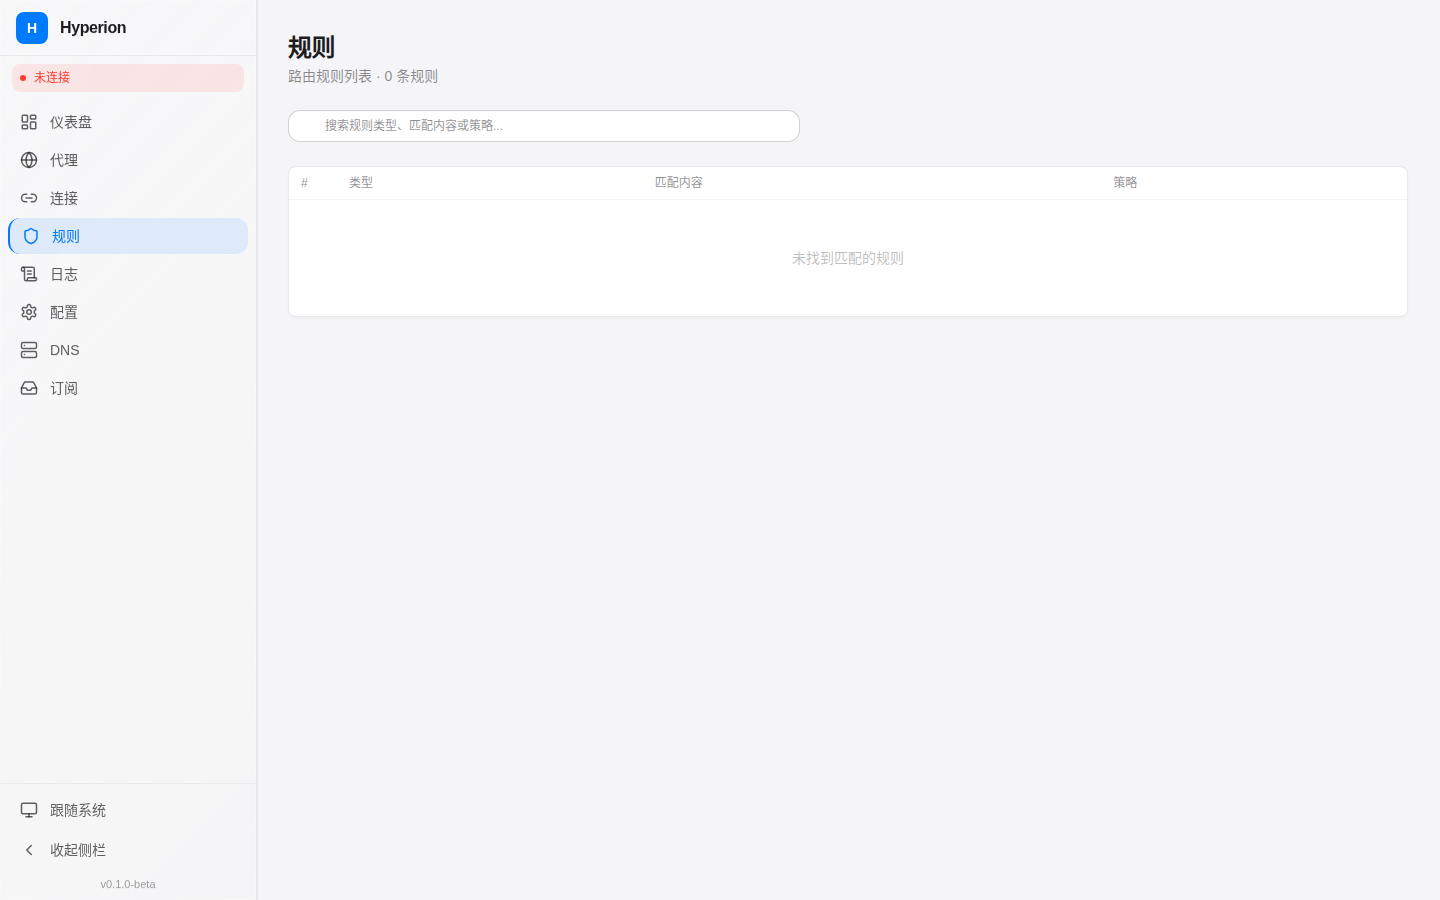
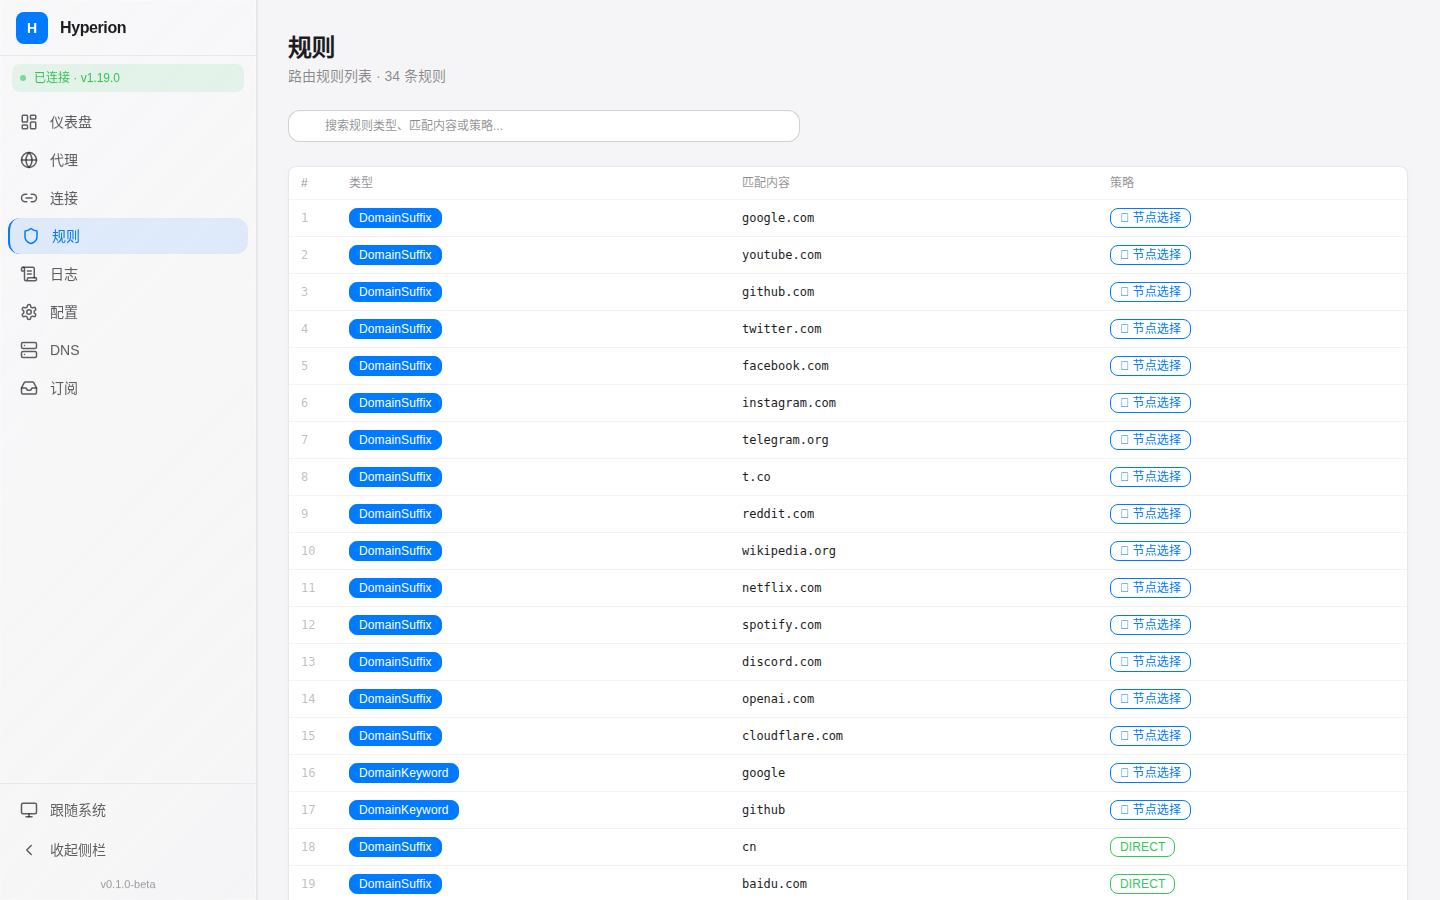
release: Hyperion v0.1.1-beta
修复与优化:

Bug 修复
- 修复路由切换后连接状态丢失问题（App 根组件全局初始化连接）
- 修复 WebSocket 连接路径错误（统一使用 /ws/ 前缀代理）
- 修复 nginx WebSocket 反代配置
- 修复 lucide-solid Dns 图标不存在导致的构建失败
- 修复 SolidJS JSX 动态组件渲染语法错误

功能增强
- Dashboard 新增 WebSocket 实时流量数据流
- Dashboard 新增实时内存使用监控
- 流量图表支持渐变面积图（深色/浅色自适应配色）

SEO 优化
- 添加完整的 Open Graph 和 Twitter Card 元标签
- 添加 JSON-LD 结构化数据
- 添加 robots.txt
- 优化 meta description 和 keywords
- 添加 theme-color 和 canonical URL
- 改进 noscript 回退页面

其他
- 更新版本号至 v0.1.1-beta
- 精简构建产物体积（95KB JS + 68KB CSS）

diff --git a/Hyperion/index.html b/Hyperion/index.html
@@ -3,17 +3,66 @@
   <head>
     <meta charset="UTF-8" />
     <meta name="viewport" content="width=device-width, initial-scale=1.0" />
+
+    <!-- Primary Meta Tags -->
+    <title>Hyperion — Clash 内核网页前端 | Apple 设计语言</title>
+    <meta name="title" content="Hyperion — Clash 内核网页前端" />
+    <meta name="description" content="Hyperion 是一款现代化、高性能的 Clash 内核网页前端管理面板。基于 SolidJS + DaisyUI 构建，采用 Apple 设计语言和 Linear 风格动画，支持深色/浅色主题切换和响应式布局。" />
+    <meta name="keywords" content="Clash, Clash Meta, Mihomo, 代理管理, 网页前端, SolidJS, DaisyUI, Tailwind CSS, Apple Design, Hyperion, 代理面板, 流量监控, 规则管理" />
+    <meta name="author" content="Qing060325" />
+    <meta name="robots" content="index, follow" />
+    <link rel="canonical" href="https://github.com/Qing060325/Hyperion" />
+
+    <!-- Favicon -->
     <link rel="icon" type="image/svg+xml" href="/icons/favicon.svg" />
+    <link rel="apple-touch-icon" href="/icons/favicon.svg" />
+
+    <!-- Open Graph / Facebook -->
+    <meta property="og:type" content="website" />
+    <meta property="og:url" content="https://github.com/Qing060325/Hyperion" />
+    <meta property="og:title" content="Hyperion — Clash 内核网页前端" />
+    <meta property="og:description" content="现代化、高性能的 Clash 内核网页前端。Apple 设计语言 + Linear 风格动画，深色/浅色主题，响应式布局。" />
+    <meta property="og:site_name" content="Hyperion" />
+    <meta property="og:locale" content="zh_CN" />
+
+    <!-- Twitter -->
+    <meta name="twitter:card" content="summary_large_image" />
+    <meta name="twitter:title" content="Hyperion — Clash 内核网页前端" />
+    <meta name="twitter:description" content="现代化、高性能的 Clash 内核网页前端。Apple 设计语言 + Linear 风格动画。" />
+
+    <!-- Theme Color -->
+    <meta name="theme-color" content="#0A84FF" media="(prefers-color-scheme: dark)" />
+    <meta name="theme-color" content="#007AFF" media="(prefers-color-scheme: light)" />
+
+    <!-- Preconnect -->
     <link rel="preconnect" href="https://fonts.googleapis.com" />
     <link rel="preconnect" href="https://fonts.gstatic.com" crossorigin />
-    <link
-      href="https://fonts.googleapis.com/css2?family=Inter:wght@300;400;500;600;700&family=JetBrains+Mono:wght@400;500;600&display=swap"
-      rel="stylesheet"
-    />
-    <title>Hyperion</title>
+
+    <!-- Structured Data (JSON-LD) -->
+    <script type="application/ld+json">
+    {
+      "@context": "https://schema.org",
+      "@type": "SoftwareApplication",
+      "name": "Hyperion",
+      "description": "现代化、高性能的 Clash 内核网页前端管理面板",
+      "applicationCategory": "UtilitiesApplication",
+      "operatingSystem": "Web Browser",
+      "programmingLanguage": "TypeScript",
+      "license": "MIT",
+      "version": "0.1.1-beta",
+      "author": {
+        "@type": "Organization",
+        "name": "Qing060325"
+      }
+    }
+    </script>
   </head>
   <body>
-    <noscript>You need to enable JavaScript to run this app.</noscript>
+    <noscript>
+      <div style="display:flex;align-items:center;justify-content:center;height:100vh;font-family:-apple-system,sans-serif;color:#333;">
+        <p>Hyperion 需要启用 JavaScript 才能运行。</p>
+      </div>
+    </noscript>
     <div id="root"></div>
     <script src="/src/main.tsx" type="module"></script>
   </body>

diff --git a/Hyperion/src/pages/Dashboard.tsx b/Hyperion/src/pages/Dashboard.tsx
@@ -17,26 +17,52 @@ export default function Dashboard() {
   let animFrame: number;
 
   onMount(async () => {
-    await clash.connect();
     if (clash.config()) setMode(clash.config()?.mode || "rule");
+    connectTrafficWs();
+    fetchMemory();
+    const memInterval = setInterval(fetchMemory, 3000);
+    onCleanup(() => {
+      clearInterval(memInterval);
+      if (trafficWs) trafficWs.close();
+    });
   });
 
-  // Poll memory/connections
-  createEffect(() => {
-    if (!clash.connected()) return;
-    const interval = setInterval(async () => {
-      try {
-        const base = clash.baseUrl();
-        const h = clash.headers();
-        const memRes = await fetch(`${base}/memory`, { headers: h });
-        if (memRes.ok) {
-          const d = await memRes.json();
-          setMemory(d.inuse || 0);
-        }
-      } catch {}
-    }, 3000);
-    onCleanup(() => clearInterval(interval));
-  });
+  // Fetch memory
+  const fetchMemory = async () => {
+    try {
+      const res = await fetch(`${clash.baseUrl()}/memory`, { headers: clash.headers() });
+      if (res.ok) {
+        const d = await res.json();
+        setMemory(d.inuse || 0);
+      }
+    } catch {}
+  };
+
+  // WebSocket traffic stream
+  let trafficWs: WebSocket | null = null;
+  const connectTrafficWs = () => {
+    try {
+      const token = clash.token();
+      const params = token ? `?token=${token}` : "";
+      trafficWs = new WebSocket(`${clash.wsUrl()}/traffic${params}`);
+      trafficWs.onmessage = (e) => {
+        try {
+          const data = JSON.parse(e.data);
+          setUpSpeed(data.up || 0);
+          setDownSpeed(data.down || 0);
+          setTotalUp((prev) => prev + (data.up || 0));
+          setTotalDown((prev) => prev + (data.down || 0));
+          setTrafficHistory((prev) => {
+            const next = [...prev, { up: data.up || 0, down: data.down || 0 }];
+            return next.length > 180 ? next.slice(-180) : next;
+          });
+        } catch {}
+      };
+      trafficWs.onclose = () => {
+        setTimeout(connectTrafficWs, 3000);
+      };
+    } catch {}
+  };
 
   // Canvas chart
   createEffect(() => {

diff --git a/Hyperion/src/App.tsx b/Hyperion/src/App.tsx
@@ -1,5 +1,7 @@
-import { Route, Router, A } from "@solidjs/router";
+import { onMount } from "solid-js";
+import { Router, Route } from "@solidjs/router";
 import { useThemeStore } from "./stores/theme";
+import { useClashStore } from "./stores/clash";
 import Sidebar from "./components/layout/Sidebar";
 import MobileNav from "./components/layout/MobileNav";
 import Dashboard from "./pages/Dashboard";
@@ -14,6 +16,11 @@ import Settings from "./pages/Settings";
 
 export default function App() {
   useThemeStore();
+  const clash = useClashStore();
+
+  onMount(() => {
+    if (!clash.connected()) clash.connect();
+  });
 
   return (
     <Router root={Root}>

diff --git a/Hyperion/src/pages/Settings.tsx b/Hyperion/src/pages/Settings.tsx
@@ -179,7 +179,7 @@ export default function Settings() {
         </div>
         <div class="divide-y divide-base-200/50">
           <SettingRow label="Hyperion 版本">
-            <span class="badge badge-sm badge-ghost font-mono">v0.1.0-beta</span>
+            <span class="badge badge-sm badge-ghost font-mono">v0.1.1-beta</span>
           </SettingRow>
           <SettingRow label="Clash Meta 版本">
             <span class="badge badge-sm badge-ghost font-mono">{clash.version()?.version || "-"}</span>

diff --git a/Hyperion/src/pages/Connections.tsx b/Hyperion/src/pages/Connections.tsx
@@ -43,8 +43,8 @@ export default function Connections() {
     try {
       const token = clash.token();
       const params = token ? `?token=${token}` : "";
-      const wsBase = clash.wsUrl();
-      ws = new WebSocket(`${wsBase.replace("/ws", "")}/connections${params}`);
+      const wsBase = clash.wsUrl(); // e.g. ws://host/ws
+      ws = new WebSocket(`${clash.wsUrl()}/connections${params}`);
 
       ws.onmessage = (e) => {
         try {

diff --git a/Hyperion/src/pages/Logs.tsx b/Hyperion/src/pages/Logs.tsx
@@ -41,7 +41,7 @@ export default function Logs() {
       const params = new URLSearchParams();
       if (token) params.set("token", token);
       if (level()) params.set("level", level());
-      ws = new WebSocket(`${clash.wsUrl().replace("/ws", "")}/logs?${params}`);
+      ws = new WebSocket(`${clash.wsUrl()}/logs?${params}`);
 
       ws.onmessage = (e) => {
         if (paused()) return;

diff --git a/Hyperion/src/components/layout/Sidebar.tsx b/Hyperion/src/components/layout/Sidebar.tsx
@@ -160,7 +160,7 @@ export default function Sidebar() {
         {/* Version */}
         {!collapsed() && (
           <div class="text-[11px] text-base-content/40 text-center pt-1 animate-fade-left">
-            v0.1.0-beta
+            v0.1.1-beta
           </div>
         )}
       </div>
